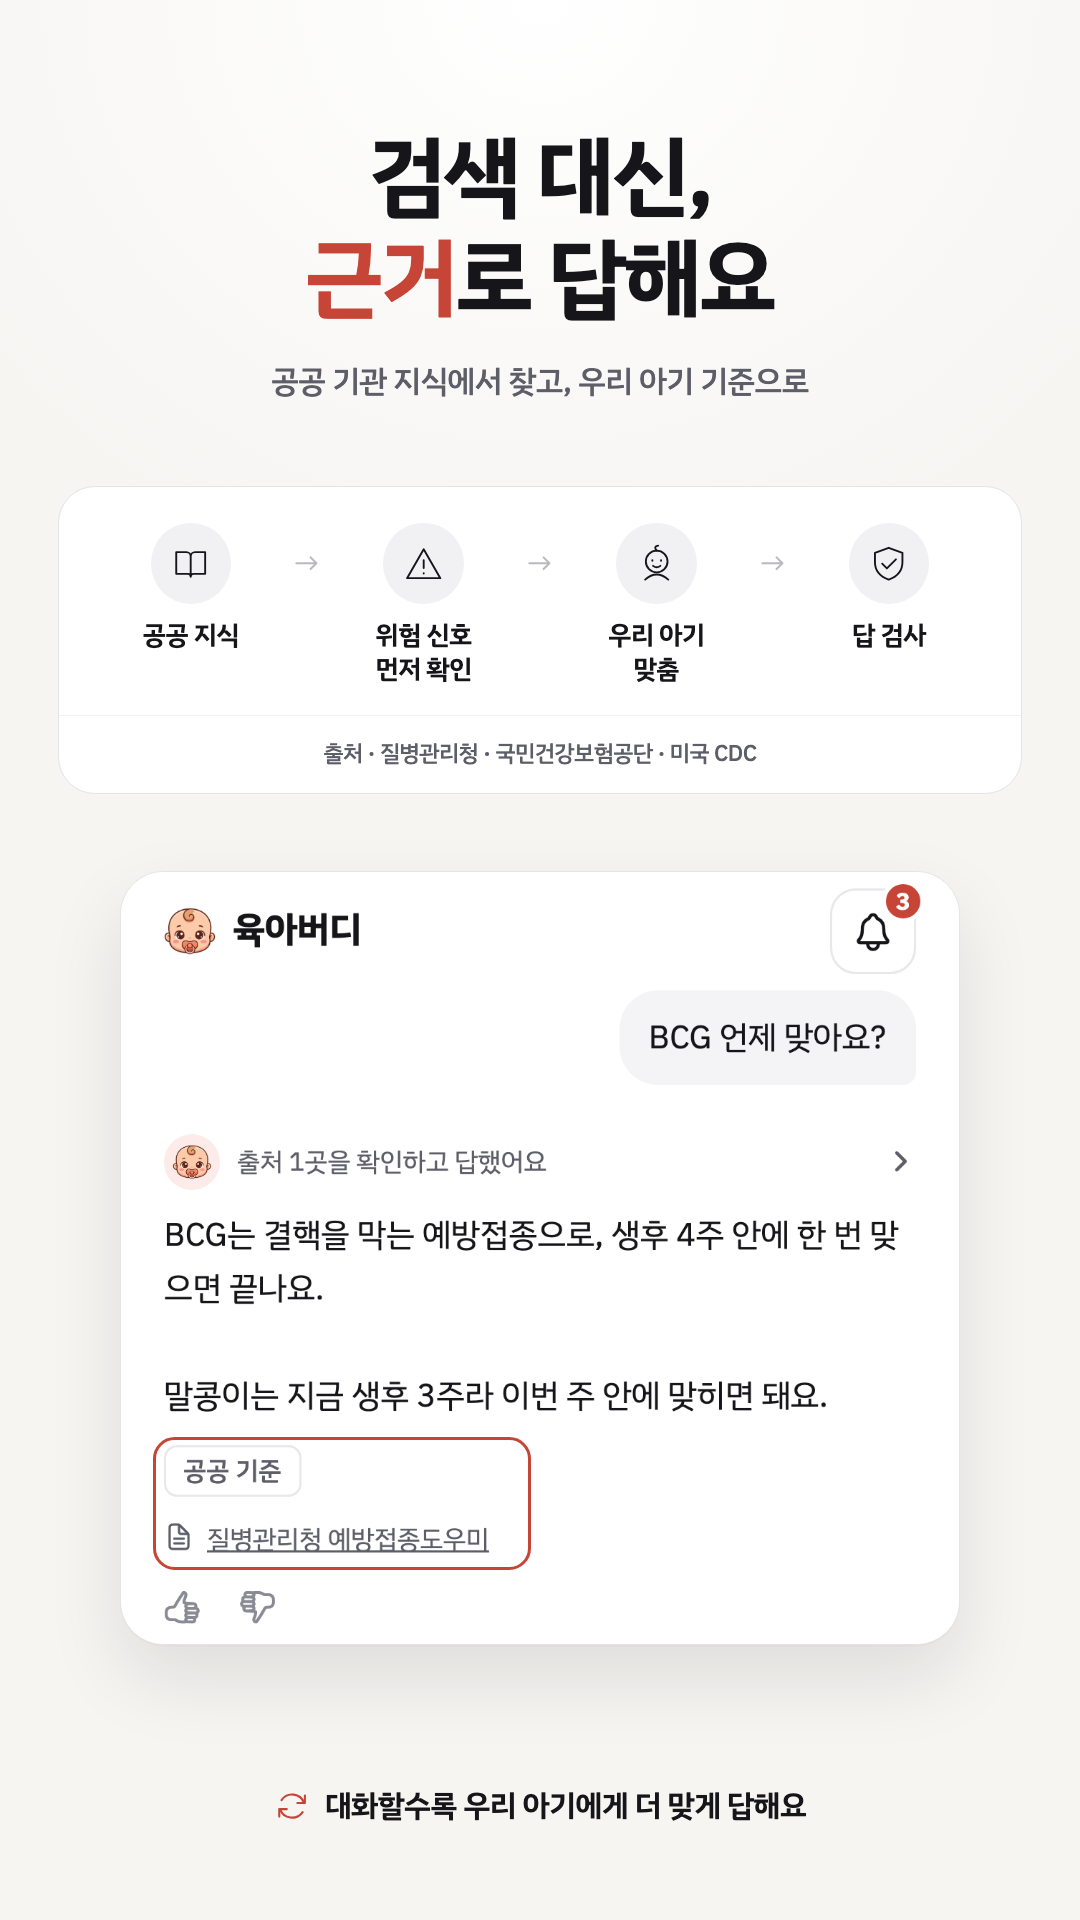
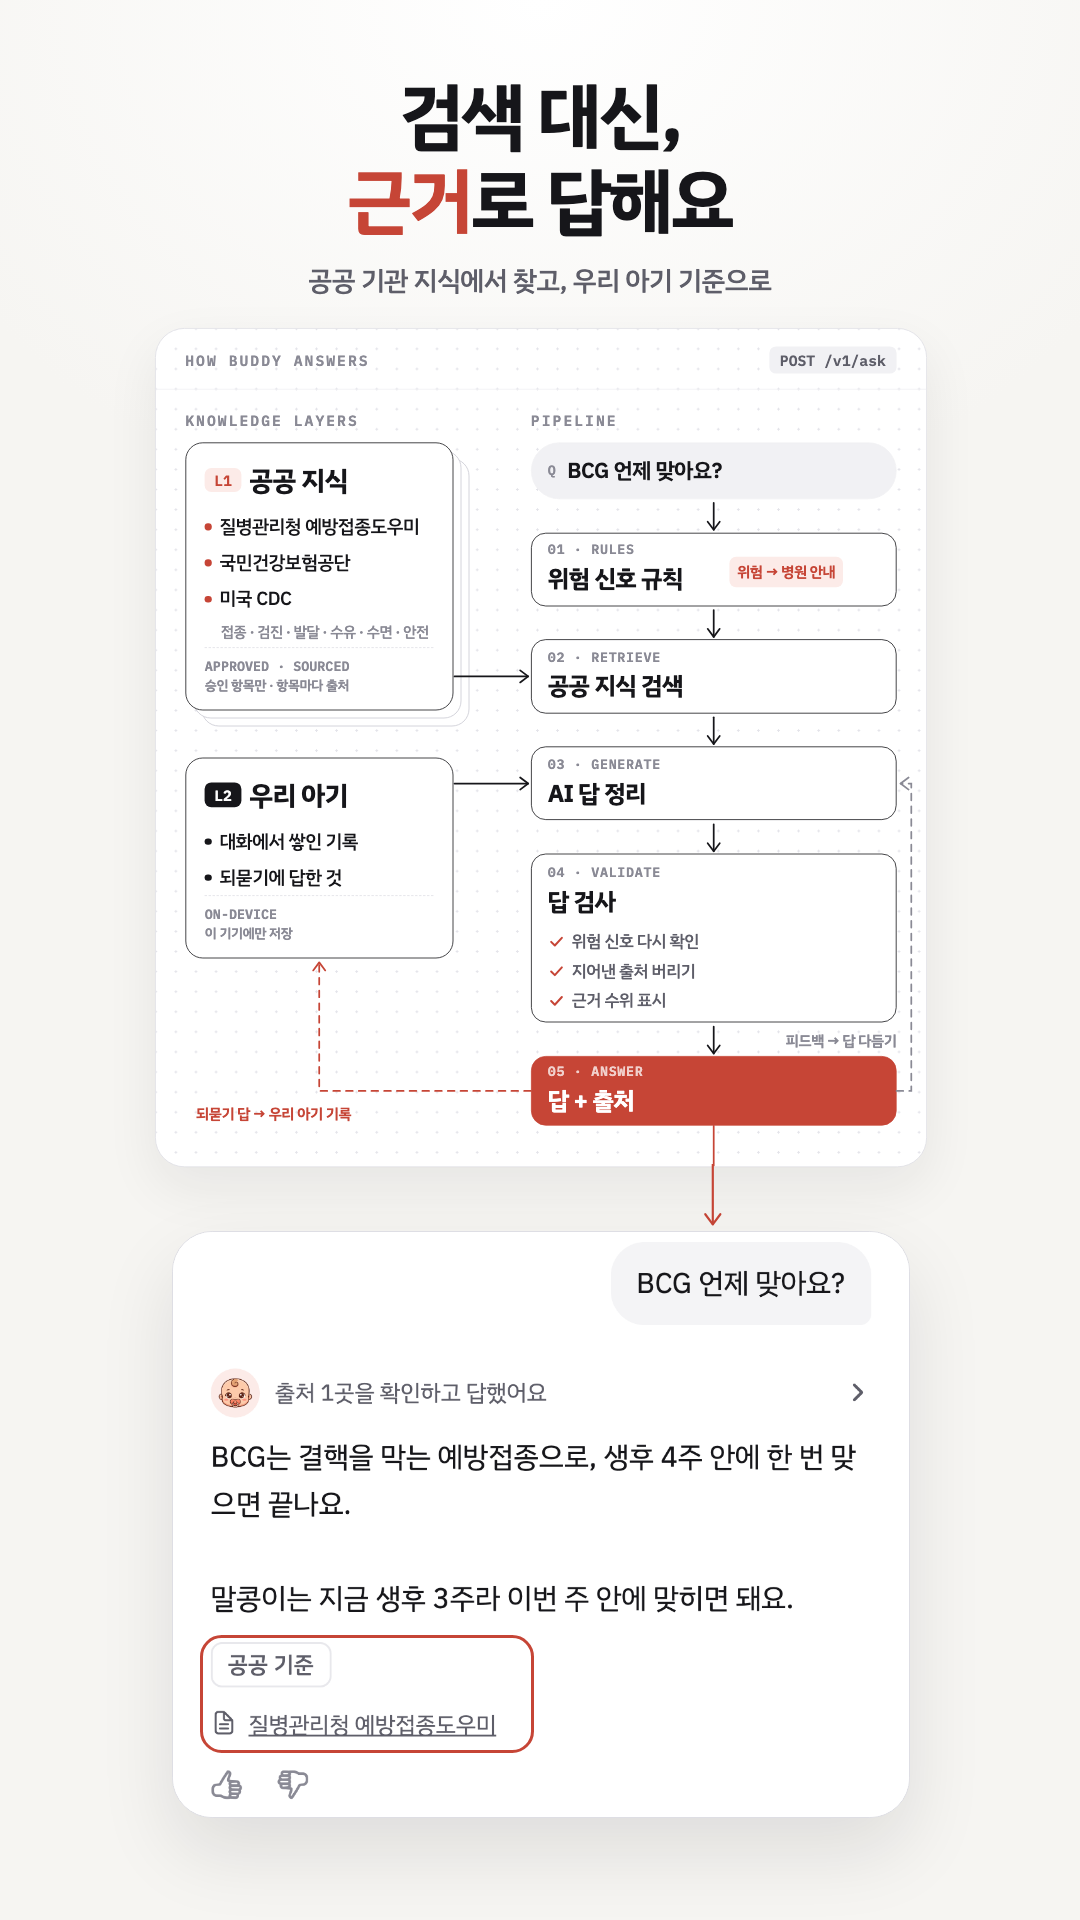
feat: 스토어 첫 장 — 지식층과 답 파이프라인을 기술 문서식 흐름도로
- KNOWLEDGE LAYERS(L1 공공 지식 · L2 우리 아기, 기기 안) → PIPELINE(01 위험 신호 규칙 · 02 공공 지식 검색 ·
  03 AI 답 정리 · 04 답 검사 · 05 답 + 출처), 되먹임 점선(되묻기 답 → L2 · 피드백 → 답 정리), 끝에서 진짜 앱 화면으로
- 모눈 패널 · IBM Plex Mono 이름표 · 먹색 + 코랄 하나 (Julian: 지식층을 기술 spec 의 flow 처럼)

diff --git a/marketing/store/answer-flow.html b/marketing/store/answer-flow.html
@@ -4,49 +4,65 @@
     <meta charset="utf-8" />
     <title>육아버디 스토어 — 근거로 답해요</title>
     <link
-      href="https://fonts.googleapis.com/css2?family=IBM+Plex+Sans+KR:wght@400;500;600;700&display=block"
+      href="https://fonts.googleapis.com/css2?family=IBM+Plex+Sans+KR:wght@400;500;600;700&family=IBM+Plex+Mono:wght@500;600&display=block"
       rel="stylesheet"
     />
     <style>
       /*
-       * 스토어 첫 장 — 버디가 답을 만드는 순서(서버 /v1/ask)와 진짜 앱 화면. 앱 디자인(시안 B 「단정한 비서」)을 따른다:
-       * 밝은 바탕 · 먹색 글 · 포인트는 코랄 하나 · 글꼴 IBM Plex Sans KR. 글은 짧게.
+       * 스토어 첫 장 — 지식층(L1 공공 지식 · L2 우리 아기)과 답 파이프라인(서버 /v1/ask)을 기술 문서의 흐름도처럼, 그 끝에 진짜 앱 화면.
+       * 앱 디자인(시안 B)을 따른다: 밝은 바탕 · 먹색 · 포인트는 코랄 하나 · IBM Plex Sans KR(+ 이름표는 IBM Plex Mono).
        * ?v=ios 는 1290×2796(앱스토어 6.9"), ?v=play 는 1290×2293 을 0.8372 배로 찍어 1080×1920(구글 플레이 9:16).
        * 실제 동작과 맞춘다 — 출처는 질병관리청 · 국민건강보험공단 · 미국 CDC 뿐, 모델 회사 이름은 쓰지 않는다(store-toon.md).
        */
-      :root { --ink: #16161a; --sub: #5e5e69; --line: #e3e3e8; --soft: #f1f1f4; --accent: #c64536; }
-      html, body { margin: 0; background: #fafaf8; }
+      :root { --ink: #16161a; --sub: #5e5e69; --mute: #8a8a95; --line: #dedee4; --soft: #f1f1f4; --accent: #c64536; --accentSoft: #fcebe8; }
+      html, body { margin: 0; background: #f6f5f2; }
       #c {
         position: relative; width: 1290px; overflow: hidden; color: var(--ink);
         font-family: 'IBM Plex Sans KR', sans-serif; letter-spacing: -0.6px; word-break: keep-all;
-        background: radial-gradient(90% 45% at 50% 0%, #ffffff 0%, #f6f5f2 70%), #f6f5f2;
+        background: radial-gradient(90% 40% at 50% 0%, #ffffff 0%, #f6f5f2 70%), #f6f5f2;
       }
       .abs { position: absolute; left: 0; right: 0; }
-      .brand { display: flex; align-items: center; justify-content: center; gap: 14px; font-weight: 600; color: var(--sub); }
       h1 { margin: 0; text-align: center; font-weight: 700; line-height: 1.18; letter-spacing: -3px; }
       h1 em { font-style: normal; color: var(--accent); }
-      .sub { text-align: center; color: var(--sub); font-weight: 500; line-height: 1.45; }
+      .sub { text-align: center; color: var(--sub); font-weight: 500; }
+      .mono { font-family: 'IBM Plex Mono', monospace; letter-spacing: 0; }
 
-      /* 답을 만드는 순서 — 네 걸음 */
-      .flow { margin: 0 auto; background: #fff; border: 2px solid var(--line); border-radius: 44px; }
-      .steps { display: flex; align-items: flex-start; justify-content: space-between; }
-      .step { flex: 1; display: flex; flex-direction: column; align-items: center; text-align: center; }
-      .icon { display: flex; align-items: center; justify-content: center; border-radius: 50%; background: var(--soft); }
-      .icon svg { fill: none; stroke: var(--ink); stroke-width: 2.6; stroke-linecap: round; stroke-linejoin: round; }
-      .label { font-weight: 600; line-height: 1.3; }
-      .arrow { flex: none; display: flex; align-items: center; }
-      .arrow svg { stroke: #b9b9c2; stroke-width: 2.4; fill: none; stroke-linecap: round; stroke-linejoin: round; }
-      .src { border-top: 2px solid var(--soft); text-align: center; color: var(--sub); font-weight: 500; }
+      /* 흐름도 패널 — 설계 좌표 1150×1200 */
+      #panel {
+        position: absolute; width: 1150px; height: 1250px; border-radius: 44px; overflow: hidden; transform-origin: 0 0;
+        background-color: #fff; border: 2px solid var(--line);
+        background-image: radial-gradient(circle, #e4e4ea 1.6px, transparent 1.8px); background-size: 30px 30px; background-position: 15px 15px;
+        box-shadow: 0 30px 80px rgba(22, 22, 26, 0.07);
+      }
+      #panel .p { position: absolute; }
+      .cap { font-size: 22px; font-weight: 600; letter-spacing: 3px; color: var(--mute); }
+      .node {
+        position: absolute; box-sizing: border-box; background: #fff; border: 2px solid var(--ink); border-radius: 22px;
+        padding: 16px 24px; display: flex; flex-direction: column; justify-content: center; gap: 4px;
+      }
+      .node .tag { font-size: 20px; font-weight: 600; color: var(--mute); letter-spacing: 1px; }
+      .node .t { font-size: 36px; font-weight: 700; letter-spacing: -1px; }
+      .layer { position: absolute; box-sizing: border-box; border-radius: 26px; background: #fff; border: 2px solid var(--ink); padding: 26px 28px; }
+      .layer.ghost { background: #fff; border-color: #c9c9d2; }
+      .chip { display: inline-block; font-size: 22px; font-weight: 600; padding: 4px 14px; border-radius: 10px; vertical-align: 6px; margin-right: 12px; }
+      .layer .t { font-size: 40px; font-weight: 700; letter-spacing: -1px; }
+      .layer ul { list-style: none; margin: 18px 0 0; padding: 0; display: flex; flex-direction: column; gap: 12px; }
+      .layer li { font-size: 28px; font-weight: 500; display: flex; align-items: center; gap: 12px; }
+      .layer li::before { content: ''; flex: none; width: 10px; height: 10px; border-radius: 50%; background: var(--d, var(--ink)); }
+      .layer li small { color: var(--mute); font-size: 22px; margin-left: 2px; }
+      .layer .foot { position: absolute; left: 28px; right: 28px; bottom: 22px; border-top: 2px dashed var(--line); padding-top: 14px; font-size: 20px; color: var(--mute); font-weight: 600; }
+      .check { display: flex; align-items: center; gap: 10px; font-size: 25px; font-weight: 500; color: var(--sub); }
+      .check svg { flex: none; stroke: var(--accent); stroke-width: 3; fill: none; stroke-linecap: round; stroke-linejoin: round; }
+      .flag { position: absolute; font-size: 22px; font-weight: 600; color: var(--accent); background: var(--accentSoft); border-radius: 10px; padding: 6px 12px; white-space: nowrap; }
+      .lbl { position: absolute; font-size: 22px; font-weight: 600; white-space: nowrap; }
 
       /* 진짜 앱 화면 */
       .screen {
-        margin: 0 auto; background: #fff; border-radius: 52px; overflow: hidden; position: relative;
-        box-shadow: 0 2px 0 rgba(0, 0, 0, 0.02), 0 40px 90px rgba(22, 22, 26, 0.10); border: 2px solid var(--line);
+        position: absolute; background: #fff; border-radius: 48px; overflow: hidden;
+        box-shadow: 0 40px 90px rgba(22, 22, 26, 0.10); border: 2px solid var(--line);
       }
       .screen img { display: block; }
       .ring { position: absolute; border: 4px solid var(--accent); border-radius: 26px; }
-      .loop { display: flex; align-items: center; justify-content: center; gap: 18px; font-weight: 600; }
-      .loop svg { fill: none; stroke: var(--accent); stroke-width: 2.8; stroke-linecap: round; stroke-linejoin: round; }
     </style>
   </head>
   <body>
@@ -55,8 +71,8 @@
       const ios = (new URLSearchParams(location.search).get('v') ?? 'ios') !== 'play';
       const H = ios ? 2796 : 2293;
       const L = ios
-        ? { h1Top: 300, h1: 122, subTop: 630, sub: 42, flowTop: 800, flowW: 1150, icon: 112, label: 34, src: 30, screenTop: 1370, screenW: 1150, loopTop: 2540, loop: 40 }
-        : { h1Top: 150, h1: 104, subTop: 430, sub: 37, flowTop: 580, flowW: 1150, icon: 96, label: 31, src: 27, screenTop: 1040, screenW: 1000, loopTop: 2130, loop: 36 };
+        ? { h1Top: 150, h1: 104, subTop: 420, sub: 38, panelTop: 520, scale: 1, screenTop: 1858, screenW: 1040 }
+        : { h1Top: 90, h1: 86, subTop: 312, sub: 32, panelTop: 392, scale: 0.8, screenTop: 1470, screenW: 880 };
       const c = document.getElementById('c');
       c.style.height = H + 'px';
       const add = (html) => c.insertAdjacentHTML('beforeend', html);
@@ -64,35 +80,89 @@
       add(`<h1 class="abs" style="top:${L.h1Top}px;font-size:${L.h1}px">검색 대신,<br><em>근거</em>로 답해요</h1>`);
       add(`<div class="abs sub" style="top:${L.subTop}px;font-size:${L.sub}px">공공 기관 지식에서 찾고, 우리 아기 기준으로</div>`);
 
-      // 네 걸음 — 서버 /v1/ask 의 순서: 지식 → 위험 신호 규칙 → 맞는 지식 + 아기 기록으로 AI 가 정리 → 답 검사
-      const ICON = {
-        book: '<path d="M10 14 h14 a6 6 0 0 1 6 6 v28 a4 4 0 0 0 -4 -4 H10 z M50 14 H36 a6 6 0 0 0 -6 6 v28 a4 4 0 0 1 4 -4 h16 z"/>',
-        alert: '<path d="M30 10 L53 50 H7 Z"/><path d="M30 25 v11"/><path d="M30 43 v0.5"/>',
-        baby: '<circle cx="30" cy="27" r="15"/><path d="M24 25 v1 M36 25 v1"/><path d="M25 33 q5 4 10 0"/><path d="M30 12 q-5 -6 2 -7"/><path d="M14 52 q16 -14 32 0"/>',
-        check: '<path d="M30 8 L49 15 V28 C49 40 41 48 30 52 C19 48 11 40 11 28 V15 Z"/><path d="M21 30 L27.5 36.5 L40 24"/>',
+      // ── 흐름도 ── 설계 좌표(1150×1200)로 그리고 크기만 줄인다
+      const PW = 1150, PH = 1250;
+      const panelX = (1290 - PW * L.scale) / 2;
+      add(`<div id="panel" style="left:${panelX}px;top:${L.panelTop}px;transform:scale(${L.scale})"></div>`);
+      const panel = document.getElementById('panel');
+      const put = (html) => panel.insertAdjacentHTML('beforeend', html);
+      const RX = 560, RW = 546, CX = RX + RW / 2; // 파이프라인 칸
+
+      put(`<div class="p mono cap" style="left:44px;top:34px">HOW BUDDY ANSWERS</div>`);
+      put(`<div class="p mono" style="right:44px;top:26px;font-size:22px;font-weight:600;padding:6px 16px;border-radius:10px;background:var(--soft);color:var(--sub)">POST /v1/ask</div>`);
+      put(`<div class="p" style="left:0;right:0;top:90px;border-top:2px solid var(--soft)"></div>`);
+      put(`<div class="p mono cap" style="left:44px;top:122px">KNOWLEDGE LAYERS</div>`);
+      put(`<div class="p mono cap" style="left:${RX}px;top:122px">PIPELINE</div>`);
+
+      // 지식층 — L1 은 겹친 카드(지식 묶음), L2 는 기기 안
+      put(`<div class="layer ghost" style="left:68px;top:194px;width:400px;height:400px"></div>
+           <div class="layer ghost" style="left:56px;top:182px;width:400px;height:400px"></div>`);
+      put(`<div class="layer" style="left:44px;top:170px;width:400px;height:400px">
+        <div><span class="chip mono" style="background:var(--accentSoft);color:var(--accent)">L1</span><span class="t">공공 지식</span></div>
+        <ul>
+          <li style="--d:var(--accent)">질병관리청 예방접종도우미</li>
+          <li style="--d:var(--accent)">국민건강보험공단</li>
+          <li style="--d:var(--accent)">미국 CDC</li>
+          <li style="--d:transparent"><small>접종 · 검진 · 발달 · 수유 · 수면 · 안전</small></li>
+        </ul>
+        <div class="foot mono">APPROVED · SOURCED<br><span style="font-family:'IBM Plex Sans KR';letter-spacing:-0.4px">승인 항목만 · 항목마다 출처</span></div></div>`);
+      put(`<div class="layer" style="left:44px;top:640px;width:400px;height:300px">
+        <div><span class="chip mono" style="background:var(--ink);color:#fff">L2</span><span class="t">우리 아기</span></div>
+        <ul><li>대화에서 쌓인 기록</li><li>되묻기에 답한 것</li></ul>
+        <div class="foot mono">ON-DEVICE<br><span style="font-family:'IBM Plex Sans KR';letter-spacing:-0.4px">이 기기에만 저장</span></div></div>`);
+
+      // 파이프라인 — 서버 /v1/ask 의 순서
+      const N = [
+        { y: 170, h: 84, html: `<div style="display:flex;align-items:center;gap:16px"><span class="mono tag" style="color:var(--mute);font-size:20px">Q</span><span style="font-size:32px;font-weight:600">BCG 언제 맞아요?</span></div>`, style: 'background:var(--soft);border-color:var(--soft);border-radius:42px' },
+        { y: 304, h: 110, tag: '01 · RULES', t: '위험 신호 규칙' },
+        { y: 464, h: 110, tag: '02 · RETRIEVE', t: '공공 지식 검색' },
+        { y: 624, h: 110, tag: '03 · GENERATE', t: 'AI 답 정리' },
+        { y: 784, h: 252, tag: '04 · VALIDATE', t: '답 검사', checks: ['위험 신호 다시 확인', '지어낸 출처 버리기', '근거 수위 표시'] },
+        { y: 1086, h: 104, tag: '05 · ANSWER', t: '답 + 출처', style: 'background:var(--accent);border-color:var(--accent);color:#fff', tagColor: 'rgba(255,255,255,0.75)' },
+      ];
+      const tick = '<svg width="26" height="26" viewBox="0 0 26 26"><path d="M5 13.5 L10.5 19 L21 7.5"/></svg>';
+      N.forEach((n) => put(`<div class="node" style="left:${RX}px;top:${n.y}px;width:${RW}px;height:${n.h}px;${n.style ?? ''}">
+        ${n.html ?? `<div class="tag mono" style="${n.tagColor ? `color:${n.tagColor}` : ''}">${n.tag}</div><div class="t">${n.t}</div>`}
+        ${n.checks ? `<div style="display:flex;flex-direction:column;gap:6px;margin-top:8px">${n.checks.map((x) => `<div class="check">${tick}${x}</div>`).join('')}</div>` : ''}
+      </div>`));
+      put(`<div class="flag" style="left:${RX + RW - 250}px;top:${304 + 36}px">위험 → 병원 안내</div>`);
+
+      // 잇는 선 — 실선은 흐름, 점선은 되먹임
+      const head = (x, y, dir) => {
+        const d = { down: `M ${x - 9} ${y - 12} L ${x} ${y} L ${x + 9} ${y - 12}`, right: `M ${x - 12} ${y - 9} L ${x} ${y} L ${x - 12} ${y + 9}`, left: `M ${x + 12} ${y - 9} L ${x} ${y} L ${x + 12} ${y + 9}`, up: `M ${x - 9} ${y + 12} L ${x} ${y} L ${x + 9} ${y + 12}` }[dir];
+        return `<path d="${d}" fill="none"/>`;
       };
-      const STEPS = [['book', '공공 지식'], ['alert', '위험 신호<br>먼저 확인'], ['baby', '우리 아기<br>맞춤'], ['check', '답 검사']];
-      const arrow = `<div class="arrow" style="height:${L.icon}px"><svg width="34" height="34" viewBox="0 0 34 34"><path d="M4 17 H28 M21 10 L28 17 L21 24"/></svg></div>`;
-      add(`<div class="abs" style="top:${L.flowTop}px"><div class="flow" style="width:${L.flowW}px">
-        <div class="steps" style="padding:${ios ? 56 : 44}px ${ios ? 44 : 36}px ${ios ? 44 : 34}px">
-          ${STEPS.map(([icon, label]) => `<div class="step" style="gap:${ios ? 24 : 18}px">
-              <div class="icon" style="width:${L.icon}px;height:${L.icon}px"><svg viewBox="0 0 60 60" width="${L.icon * 0.54}" height="${L.icon * 0.54}">${ICON[icon]}</svg></div>
-              <div class="label" style="font-size:${L.label}px">${label}</div></div>`).join(arrow)}
-        </div>
-        <div class="src" style="font-size:${L.src}px;padding:${ios ? 30 : 24}px 0 ${ios ? 34 : 28}px">출처 · 질병관리청 · 국민건강보험공단 · 미국 CDC</div>
-      </div></div>`);
+      let svg = '';
+      const ink = 'stroke="#16161a" stroke-width="2.6" fill="none" stroke-linecap="round" stroke-linejoin="round"';
+      const red = 'stroke="#c64536" stroke-width="2.6" fill="none" stroke-linecap="round" stroke-linejoin="round"';
+      // 아래로 흐름
+      [[254, 304], [414, 464], [574, 624], [734, 784], [1036, 1086]].forEach(([a, b]) => {
+        svg += `<g ${ink}><path d="M ${CX} ${a + 6} L ${CX} ${b - 4}"/>${head(CX, b - 4, 'down')}</g>`;
+      });
+      // L1 → 검색, L2 → 정리
+      svg += `<g ${ink}><path d="M 446 519 L ${RX - 4} 519"/>${head(RX - 4, 519, 'right')}</g>`;
+      svg += `<g ${ink}><path d="M 446 679 L ${RX - 4} 679"/>${head(RX - 4, 679, 'right')}</g>`;
+      // 되먹임 ① 되묻기 답 → L2 (아래쪽으로 돌아 L2 밑으로)
+      svg += `<g ${red} stroke-dasharray="10 9"><path d="M ${RX} 1138 L 244 1138 L 244 946"/></g><g ${red}>${head(244, 946, 'up')}</g>`;
+      // 되먹임 ② 피드백 → AI 답 정리 (오른쪽 가장자리로)
+      svg += `<g stroke="#8a8a95" stroke-width="2.6" fill="none" stroke-dasharray="10 9" stroke-linecap="round"><path d="M ${RX + RW} 1138 L 1128 1138 L 1128 679 L ${RX + RW + 6} 679"/></g><g stroke="#8a8a95" stroke-width="2.6" fill="none" stroke-linecap="round" stroke-linejoin="round">${head(RX + RW + 6, 679, 'left')}</g>`;
+      // 답 → 화면
+      svg += `<g ${red}><path d="M ${CX} 1190 L ${CX} ${PH}"/></g>`;
+      put(`<svg class="p" style="left:0;top:0" width="${PW}" height="${PH}" viewBox="0 0 ${PW} ${PH}">${svg}</svg>`);
+      put(`<div class="lbl" style="left:60px;top:1156px;color:var(--accent)">되묻기 답 → 우리 아기 기록</div>`);
+      put(`<div class="lbl" style="right:44px;top:1046px;color:var(--mute)">피드백 → 답 다듬기</div>`);
 
-      // 진짜 앱 화면 — 머리 줄(shots/answer-head.png 1170×150) + 질문과 답(shots/answer-qa.png 1170×930)
-      const k = L.screenW / 1170;
-      add(`<div class="abs" style="top:${L.screenTop}px"><div class="screen" style="width:${L.screenW}px">
-        <img src="shots/answer-head.png" style="width:${L.screenW}px;height:${150 * k}px"/>
+      // 패널 밖으로 이어지는 화살표 끝 — 진짜 앱 화면으로
+      const outX = panelX + CX * L.scale, outTop = L.panelTop + PH * L.scale;
+      add(`<svg class="abs" style="left:0;top:${outTop - 2}px" width="1290" height="${L.screenTop - outTop + 8}"><g stroke="#c64536" stroke-width="2.6" fill="none" stroke-linecap="round" stroke-linejoin="round">
+        <path d="M ${outX} 0 L ${outX} ${L.screenTop - outTop - 6}"/><path d="M ${outX - 9} ${L.screenTop - outTop - 18} L ${outX} ${L.screenTop - outTop - 6} L ${outX + 9} ${L.screenTop - outTop - 18}"/></g></svg>`);
+
+      // 진짜 앱 화면 — 질문과 답(shots/answer-qa.png 1170×930)
+      const k = L.screenW / 1170, sx = (1290 - L.screenW) / 2;
+      add(`<div class="screen" style="left:${sx}px;top:${L.screenTop}px;width:${L.screenW}px">
         <img src="shots/answer-qa.png" style="width:${L.screenW}px;height:${930 * k}px"/>
-        <div class="ring" style="left:${44 * k}px;top:${(150 + 640) * k}px;width:${520 * k}px;height:${178 * k}px"></div>
-      </div></div>`);
-
-      add(`<div class="abs loop" style="top:${L.loopTop}px;font-size:${L.loop}px">
-        <svg width="${L.loop * 1.2}" height="${L.loop * 1.2}" viewBox="0 0 48 48"><path d="M40 20 A17 17 0 0 0 10 16 M8 28 A17 17 0 0 0 38 32"/><path d="M41 10 V20 H31 M7 38 V28 H17"/></svg>
-        대화할수록 우리 아기에게 더 맞게 답해요</div>`);
+        <div class="ring" style="left:${44 * k}px;top:${640 * k}px;width:${520 * k}px;height:${178 * k}px"></div>
+      </div>`);
       document.fonts.ready.then(() => document.body.setAttribute('data-ready', '1'));
     </script>
   </body>

diff --git a/docs/product/store-toon.md b/docs/product/store-toon.md
@@ -80,8 +80,12 @@
 - **모양은 앱 디자인 그대로**: 밝은 바탕 · 먹색 글 · 포인트는 코랄 하나 · IBM Plex Sans KR. 글은 짧게 — 처음 판(어두운 우주 ·
   색 여러 개 · 단계마다 설명)은 「조잡하고 글이 많다」(Julian)여서 걷어냈다
 - 위에서부터: 제목 「검색 대신, 근거로 답해요」 · 한 줄 「공공 기관 지식에서 찾고, 우리 아기 기준으로」 ·
-  네 걸음 「공공 지식 → 위험 신호 먼저 확인 → 우리 아기 맞춤 → 답 검사」와 출처 한 줄(질병관리청 · 국민건강보험공단 · 미국 CDC) ·
-  진짜 앱 화면(출처 줄에 코랄 테) · 「대화할수록 우리 아기에게 더 맞게 답해요」
+  **기술 문서식 흐름도**(모눈 패널, 영문 고정폭 이름표 — Julian 「기술 spec 에서 나올 법한 flow」) ·
+  흐름도 끝 「답 + 출처」에서 내려온 화살표가 가리키는 진짜 앱 화면(출처 줄에 코랄 테)
+- 흐름도: 왼쪽 KNOWLEDGE LAYERS — L1 공공 지식(질병관리청 예방접종도우미 · 국민건강보험공단 · 미국 CDC, 승인 항목만 · 항목마다 출처),
+  L2 우리 아기(대화 기록 · 되묻기 답, 이 기기에만). 오른쪽 PIPELINE — 질문 → 01 위험 신호 규칙(위험 → 병원 안내) →
+  02 공공 지식 검색(← L1) → 03 AI 답 정리(← L2) → 04 답 검사(위험 신호 다시 확인 · 지어낸 출처 버리기 · 근거 수위 표시) →
+  05 답 + 출처. 되먹임 점선 둘: 되묻기 답 → L2, 피드백 → 03
 - 가운데 화면은 **진짜 앱 화면**이다: 웹 개발 서버에서 앱을 열고 서버 응답만 L1 `k-vacc-0001` 내용으로 바꿔 넣어 찍는다
   (`capture.mjs`, 모델 호출 없음). 앱 머리 줄과 질문 · 답 부분을 이어 붙였다(그 사이 브리핑 카드를 뺐다).
   스토어는 앱을 쓰는 화면이어야 해서(앱스토어 2.3.3, 구글 플레이 스크린샷 규정) 도식만으로 두지 않는다
